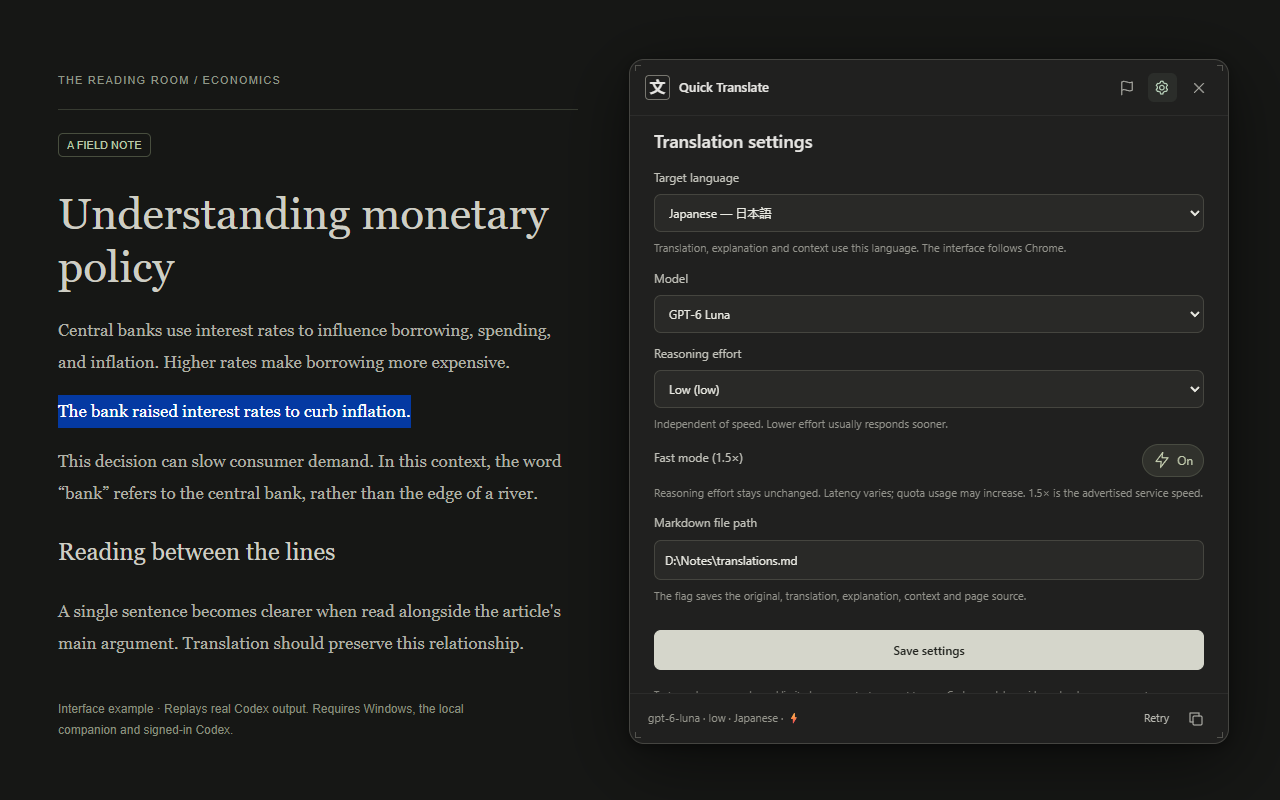
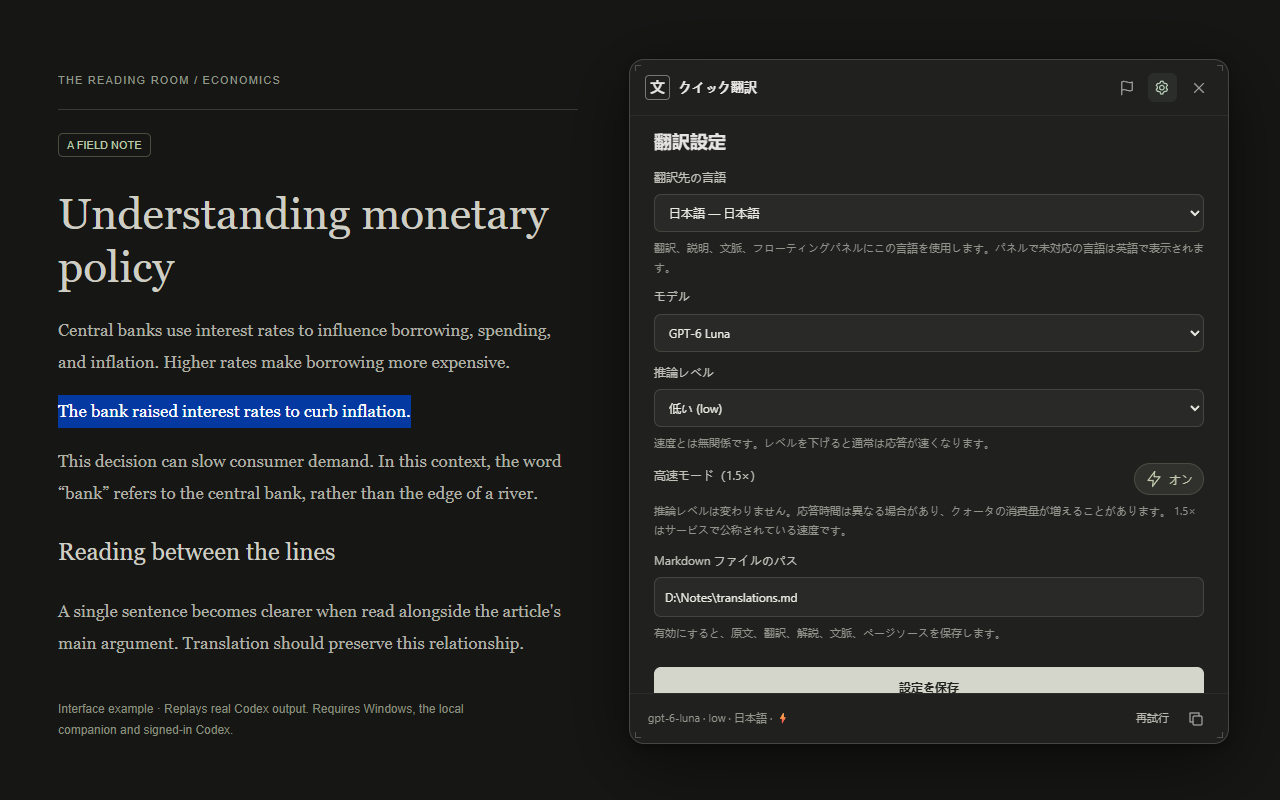
Fix floating panel language updates for v1.3.1

Changed region(s): [[0.5, 0.2188, 0.9375, 0.9062], [0.5, 0.1562, 0.625, 0.1875], [0.5312, 0.0938, 0.5938, 0.125]]

diff --git a/extension/content.js b/extension/content.js
@@ -1,7 +1,7 @@
 (() => {
   if(globalThis.__localCodexTranslator) return;
   globalThis.__localCodexTranslator = true;
-  const {t,locale,apply,error:displayError}=TranslatorI18n;
+  const {t,locale,apply,error:displayError,setCatalog}=TranslatorI18n.create();
   const svg = (body) => `<svg width="18" height="18" viewBox="0 0 24 24" fill="none" stroke="currentColor" stroke-width="1.65" stroke-linecap="round" stroke-linejoin="round" aria-hidden="true">${body}</svg>`;
   const icons = {
     flag:svg('<path d="M5 21V4c4-4 9 4 14 0v11c-5 4-10-4-14 0"/>'),
@@ -12,8 +12,8 @@
     arrow:svg('<path d="M5 12h14m-5-5 5 5-5 5"/>'),
     copy:svg('<rect x="8" y="8" width="12" height="12" rx="2"/><path d="M16 8V4H4v12h4"/>')
   };
-  let host, shadow, ui, data, requestId, raw = '', done = false, prefs, models = [], started = 0, ticker;
-  const ask = async msg => { const r = await chrome.runtime.sendMessage(msg); if(!r?.ok) throw new Error(r?.error || t('errorConnection')); return r; };
+  let host, shadow, ui, data, requestId, raw = '', done = false, prefs, models = [], started = 0, ticker, lastEffective, lastStatus, loadingHost;
+  const ask = async msg => { const r = await chrome.runtime.sendMessage(msg); if(!r?.ok) throw Object.assign(new Error(r?.error || t('errorConnection')),{code:r?.errorCode,args:r?.errorArgs}); return r; };
   function collect(fallback) {
     const selection = window.getSelection();
     let selected = selection?.toString().trim() || fallback?.trim() || '';
@@ -61,6 +61,7 @@
   `;
   function mount(rect) {
     if(host) close();
+    raw='';lastEffective=null;lastStatus=null;prefs=null;models=[];
     host = document.createElement('div');
     host.id = 'local-codex-quick-translator';
     host.style.cssText='all:initial!important;position:fixed!important;inset:0!important;width:0!important;height:0!important;z-index:2147483647!important;';
@@ -72,24 +73,25 @@
       <div class="field"><label for="target-language" data-i18n="targetLanguage"></label><select id="target-language"></select><input id="custom-language" dir="ltr" hidden maxlength="50" data-i18n-placeholder="languageCode" data-i18n-aria="languageCodeLabel" spellcheck="false"><div class="hint" data-i18n="targetHint"></div></div>
       <div class="field"><label for="model" data-i18n="model"></label><select id="model" name="model"><option data-i18n="connecting"></option></select></div><div class="field"><label for="effort" data-i18n="effort"></label><select id="effort" name="effort" disabled><option data-i18n="loading"></option></select><div class="hint" data-i18n="effortHint"></div></div>
       <div class="field"><div class="toggle-row"><label class="fast-label" data-i18n="fastMode"></label><button class="switch" type="button" role="switch" aria-checked="true">${icons.bolt}<span data-i18n="enabled"></span></button></div><div class="hint speed-hint" data-i18n="speedHint"></div></div><div class="field"><label for="notes-path" data-i18n="notesPath"></label><input id="notes-path" name="path" dir="ltr" placeholder="D:\\Notes\\translations.md" spellcheck="false" required><div class="hint" data-i18n="notesHint"></div></div><button class="save-settings" type="submit" disabled data-i18n="saveSettings"></button><div class="privacy" data-i18n="privacyShort"></div></form><div class="status" role="status" aria-live="polite"></div></div>
-      <footer class="bottom"><span class="bottom-left" data-i18n="connecting"></span><div class="actions"><button class="text-button retry" hidden data-i18n="retry"></button><button class="text-button stop" data-i18n="stop"></button><button class="icon copy" data-i18n-title="copy" data-i18n-aria="copy" disabled>${icons.copy}</button></div></footer>
+      <footer class="bottom"><span class="bottom-left"></span><div class="actions"><button class="text-button retry" hidden data-i18n="retry"></button><button class="text-button stop" data-i18n="stop"></button><button class="icon copy" data-i18n-title="copy" data-i18n-aria="copy" disabled>${icons.copy}</button></div></footer>
       ${['nw','ne','sw','se'].map(c=>`<div class="handle ${c}" data-corner="${c}" aria-hidden="true"></div>`).join('')}
     </section>`;
     apply(shadow);
     document.documentElement.append(host);
     ui = sel => shadow.querySelector(sel);
+    ui('.bottom-left').textContent=t('connecting');
     const panel = ui('.panel'); panel.lang=locale();panel.dir=TranslatorLanguages.direction(locale()); const w=Math.min(460,innerWidth-16),h=Math.min(530,innerHeight-16);
     let x=Math.max(8,Math.min(rect?.left || 24,innerWidth-w-8));
     let y=rect ? rect.bottom+10 : 60;
     if(y+h>innerHeight-8) y=rect && rect.top-h-10>=8 ? rect.top-h-10 : innerHeight-h-8;
     Object.assign(panel.style,{left:`${x}px`,top:`${Math.max(8,y)}px`,width:`${w}px`,height:`${h}px`});
     ui('.close').onclick=close;
-    ui('.gear').onclick=()=>{const showing=ui('.settings').classList.toggle('visible');ui('.reading').classList.toggle('hidden',showing);ui('.gear').classList.toggle('active',showing);if(showing) void loadSettings();};
+    ui('.gear').onclick=()=>{const showing=ui('.settings').classList.toggle('visible');ui('.reading').classList.toggle('hidden',showing);ui('.gear').classList.toggle('active',showing);if(showing&&!prefs)void loadSettings();};
     ui('.flag').onclick=save;
     ui('.stop').onclick=()=>void stop();
-    ui('.retry').onclick=()=>void translate();
-    ui('.copy').onclick=async()=>{try {await navigator.clipboard.writeText(raw);status(t('copied'));}catch{status(t('copyFailed'),true);}};
-    ui('.settings').onsubmit=async event=>{event.preventDefault();const button=ui('.save-settings');button.disabled=true;try {const r=await ask({type:'settings',preferences:{model:ui('#model').value,effort:ui('#effort').value,fast:ui('.switch').getAttribute('aria-checked')==='true',notesPath:ui('#notes-path').value.trim(),targetLanguage:TranslatorLanguages.read(ui('#target-language'),ui('#custom-language'))}});prefs=r.preferences;status(t('settingsSaved'));if(!raw)effective(r.effective);}catch(e){status(displayError(e),true);}finally{button.disabled=false;}};
+    ui('.retry').onclick=()=>void beginTranslation();
+    ui('.copy').onclick=async()=>{try {await navigator.clipboard.writeText(raw);statusKey('copied');}catch{statusKey('copyFailed',[],true);}};
+    ui('.settings').onsubmit=async event=>{event.preventDefault();const panelHost=host,button=ui('.save-settings');button.disabled=true;try {const r=await ask({type:'settings',preferences:{model:ui('#model').value,effort:ui('#effort').value,fast:ui('.switch').getAttribute('aria-checked')==='true',notesPath:ui('#notes-path').value.trim(),targetLanguage:TranslatorLanguages.read(ui('#target-language'),ui('#custom-language'))}});if(host!==panelHost)return;updateSettings(r);statusKey('settingsSaved');}catch(e){if(host===panelHost)status(displayError(e),true);}finally{button.disabled=false;}};
     ui('.switch').onclick=()=>{const on=ui('.switch').getAttribute('aria-checked')!=='true';toggle(on);speedHint();};
     ui('#model').onchange=()=>{fillEfforts(ui('#effort').value);speedHint();};
     shadow.addEventListener('keydown',e=>{e.stopPropagation();if(e.key==='Escape') close();});
@@ -112,12 +114,25 @@
       target.addEventListener('pointermove',move);target.addEventListener('pointerup',end);target.addEventListener('pointercancel',end);
     });
   }
-  function status(text,error=false){if(!host)return;ui('.status').textContent=text;ui('.status').classList.toggle('error',error);}
+  function status(text,error=false){if(!host)return;lastStatus={text,error};ui('.status').textContent=text;ui('.status').classList.toggle('error',error);}
+  function statusKey(key,args=[],error=false){status(t(key,args),error);lastStatus={key,args,error};}
   function toggle(on){ui('.switch').setAttribute('aria-checked',String(on));ui('.switch span').textContent=t(on?'enabled':'disabled');}
-  function fillEfforts(preferred){const m=models.find(m=>m.model===ui('#model').value);if(m)TranslatorSettings.fillEfforts(ui('#effort'),m,preferred);}
-  function speedHint(){const m=models.find(m=>m.model===ui('#model').value);if(!m)return;const info=TranslatorSettings.speedInfo(m);ui('.fast-label').textContent=info.label;ui('.speed-hint').textContent=info.hint;ui('.switch').disabled=!info.supported;}
-  function effective(settings){if(!host||!settings)return;const language=settings.targetLanguage||TranslatorLanguages.resolve(prefs?.targetLanguage,locale());ui('.translation').lang=language;ui('.translation').dir=TranslatorLanguages.direction(language);ui('.bottom-left').textContent=`${settings.model} · ${settings.effort} · ${TranslatorLanguages.name(language,locale())}${settings.serviceTier!=='default'?' · ⚡':''}`;}
-  async function loadSettings(){try{const r=await ask({type:'hello'});if(!host)return;prefs=r.preferences;models=r.models;TranslatorLanguages.fill(ui('#target-language'),ui('#custom-language'),prefs.targetLanguage,locale(),t);const select=ui('#model');select.replaceChildren(...models.map(m=>{const o=document.createElement('option');o.value=m.model;o.textContent=m.displayName||m.model;return o;}));select.value=prefs.model;fillEfforts(prefs.effort);ui('#notes-path').value=prefs.notesPath;toggle(prefs.fast);speedHint();ui('.save-settings').disabled=false;if(!raw)effective(r.effective);}catch(e){status(displayError(e),true);}}
+  function fillEfforts(preferred){const m=models.find(m=>m.model===ui('#model').value);if(m)TranslatorSettings.fillEfforts(ui('#effort'),m,preferred,t);}
+  function speedHint(){const m=models.find(m=>m.model===ui('#model').value);if(!m)return;const info=TranslatorSettings.speedInfo(m,t);ui('.fast-label').textContent=info.label;ui('.speed-hint').textContent=info.hint;ui('.switch').disabled=!info.supported;}
+  function effective(settings){if(!host||!settings)return;lastEffective=settings;const language=settings.targetLanguage||TranslatorLanguages.resolve(prefs?.targetLanguage,chrome.i18n.getUILanguage());ui('.translation').lang=language;ui('.translation').dir=TranslatorLanguages.direction(language);ui('.bottom-left').textContent=`${settings.model} · ${settings.effort} · ${TranslatorLanguages.name(language,locale())}${settings.serviceTier!=='default'?' · ⚡':''}`;}
+  function updateSettings(r){
+    prefs=r.preferences;models=r.models||models;
+    if(r.ui)setCatalog(r.ui);
+    apply(shadow);ui('.panel').lang=locale();ui('.panel').dir=TranslatorLanguages.direction(locale());
+    TranslatorLanguages.fill(ui('#target-language'),ui('#custom-language'),prefs.targetLanguage,locale(),t);
+    const select=ui('#model');select.replaceChildren(...models.map(m=>{const o=document.createElement('option');o.value=m.model;o.textContent=m.displayName||m.model;return o;}));
+    select.value=prefs.model;fillEfforts(prefs.effort);ui('#notes-path').value=prefs.notesPath;toggle(prefs.fast);speedHint();ui('.save-settings').disabled=false;
+    // Existing output keeps its own language and direction; changing UI does not regenerate it.
+    effective(lastEffective||r.effective);
+    if(lastStatus?.key)statusKey(lastStatus.key,lastStatus.args,lastStatus.error);
+  }
+  async function loadSettings(){const panelHost=host;if(loadingHost===panelHost)return false;loadingHost=panelHost;try{const r=await ask({type:'hello'});if(host!==panelHost)return false;updateSettings(r);return true;}catch(e){if(host===panelHost)status(displayError(e),true);return false;}finally{if(loadingHost===panelHost)loadingHost=null;}}
+  async function beginTranslation(){const panelHost=host;const ready=prefs||await loadSettings();if(host!==panelHost)return;if(ready)await translate();else finish(lastStatus?.text||t('errorConnection'));}
   function render(text){
     if(!host)return;const area=ui('.translation');area.replaceChildren();let primary=false,headingCount=0;
     for(const block of text.split(/\n(?=## )|(?<=\n)\n/)){
@@ -132,18 +147,19 @@
     requestId=crypto.randomUUID();raw='';done=false;started=performance.now();
     ui('.source').textContent=data.selected;ui('.flag').disabled=true;ui('.flag').classList.remove('active');ui('.flag').innerHTML=icons.flag;ui('.copy').disabled=true;ui('.stop').hidden=false;ui('.retry').hidden=true;
     ui('.translation').dir=TranslatorLanguages.direction(locale());ui('.translation').innerHTML='<div class="empty"><span class="pulse"></span><span data-i18n="translatingContext"></span></div>';apply(ui('.translation'));ui('.translation').setAttribute('aria-busy','true');status('');
-    clearInterval(ticker);ticker=setInterval(()=>{if(host&&!raw)status(t('elapsed',[String(Math.floor((performance.now()-started)/1000))]));},1000);
+    clearInterval(ticker);ticker=setInterval(()=>{if(host&&!raw)statusKey('elapsed',[String(Math.floor((performance.now()-started)/1000))]);},1000);
     const id=requestId;
-    try{const {rect,...payload}=data;await ask({type:'translate',id,data:payload});}catch(e){if(id===requestId)finish(e.message);}
+    try{const {rect,...payload}=data;await ask({type:'translate',id,data:payload});}catch(e){if(id===requestId)finish(displayError(e));}
   }
-  function finish(error){clearInterval(ticker);if(!host)return;done=true;ui('.translation').setAttribute('aria-busy','false');ui('.stop').hidden=true;ui('.retry').hidden=false;ui('.copy').disabled=!raw;ui('.flag').disabled=!!error||!raw;if(error){if(!raw)ui('.translation').textContent=t('incomplete');status(error,true);}else status(t('complete',[((performance.now()-started)/1000).toFixed(1)]));}
+  function finish(error){clearInterval(ticker);if(!host)return;done=true;ui('.translation').setAttribute('aria-busy','false');ui('.stop').hidden=true;ui('.retry').hidden=false;ui('.copy').disabled=!raw;ui('.flag').disabled=!!error||!raw;if(error){if(!raw)ui('.translation').textContent=t('incomplete');status(error,true);}else statusKey('complete',[((performance.now()-started)/1000).toFixed(1)]);}
   async function stop(){if(requestId&&!done){ask({type:'cancel',target:requestId}).catch(()=>{});finish(t('stopped'));requestId=null;}}
-  async function save(){const id=requestId;ui('.flag').disabled=true;try{const r=await ask({type:'save',target:id});if(id!==requestId||!host)return;ui('.flag').innerHTML=icons.check;ui('.flag').classList.add('active');status(t('savedTo',[r.path]));}catch(e){if(id===requestId&&host){ui('.flag').disabled=false;status(displayError(e),true);}}}
-  function close(){if(requestId&&!done)ask({type:'cancel',target:requestId}).catch(()=>{});clearInterval(ticker);host?.remove();host=null;requestId=null;}
+  async function save(){const id=requestId;ui('.flag').disabled=true;try{const r=await ask({type:'save',target:id});if(id!==requestId||!host)return;ui('.flag').innerHTML=icons.check;ui('.flag').classList.add('active');statusKey('savedTo',[r.path]);}catch(e){if(id===requestId&&host){ui('.flag').disabled=false;status(displayError(e),true);}}}
+  function close(){if(requestId&&!done)ask({type:'cancel',target:requestId}).catch(()=>{});ask({type:'panel-closed'}).catch(()=>{});clearInterval(ticker);host?.remove();host=null;requestId=null;}
   document.addEventListener('keydown',event=>{if(host&&event.key==='Escape'){event.preventDefault();event.stopPropagation();close();}},true);
   window.addEventListener('resize',()=>{if(!host)return;const panel=ui('.panel'),r=panel.getBoundingClientRect();const w=Math.min(r.width,innerWidth-16),h=Math.min(r.height,innerHeight-16);Object.assign(panel.style,{width:`${w}px`,height:`${h}px`,left:`${Math.max(8,Math.min(r.left,innerWidth-w-8))}px`,top:`${Math.max(8,Math.min(r.top,innerHeight-h-8))}px`});});
   chrome.runtime.onMessage.addListener(msg=>{
-    if(msg.type==='open-translator') {try{const collected=collect(msg.selectionText);mount(collected.rect);data=collected;void translate();}catch(e){mount();status(displayError(e),true);ui('.translation').textContent=t('errorSelectText');ui('.stop').hidden=true;}return;}
-    if(msg.type==='translation-event'&&msg.id===requestId&&host){if(msg.text!==undefined){raw=msg.text;render(raw);effective(msg.settings);status(t('translating'));}if(msg.event==='done')finish();if(msg.event==='error')finish(msg.error);}
+    if(msg.type==='open-translator') {try{const collected=collect(msg.selectionText);mount(collected.rect);data=collected;void beginTranslation();}catch(e){mount();status(displayError(e),true);ui('.translation').textContent=t('errorSelectText');ui('.stop').hidden=true;}return;}
+    if(msg.type==='settings-updated'&&host){updateSettings(msg);return;}
+    if(msg.type==='translation-event'&&msg.id===requestId&&host){if(msg.text!==undefined){raw=msg.text;render(raw);effective(msg.settings);statusKey('translating');}if(msg.event==='done')finish();if(msg.event==='error')finish(displayError({code:msg.errorCode,args:msg.errorArgs,message:msg.error}));}
   });
 })();

diff --git a/extension/background.js b/extension/background.js
@@ -2,6 +2,26 @@ importScripts('i18n.js','languages.js');
 const {t,locale,error:displayError}=TranslatorI18n;
 const HOST = 'com.local.codex_quick_translator';
 let nativePort, languageCapable=false, checkingHost;
+const panels=new Map(),catalogs=new Map();
+async function localized(result) {
+  const code=TranslatorI18n.catalogLocale(TranslatorLanguages.resolve(result.preferences.targetLanguage,locale()));
+  if(!catalogs.has(code))catalogs.set(code,fetch(chrome.runtime.getURL(`_locales/${code}/messages.json`)).then(response=>{
+    if(!response.ok)throw new Error(t('errorConnection'));
+    return response.json();
+  }).catch(error=>{catalogs.delete(code);throw error;}));
+  return {...result,ui:{locale:code.replace('_','-'),messages:await catalogs.get(code)}};
+}
+function watchPanel(sender) {
+  if(!sender.tab)return;
+  panels.set(owner(sender),{tabId:sender.tab.id,frameId:sender.frameId||0,documentId:sender.documentId});
+  if(panels.size>200)panels.delete(panels.keys().next().value);
+}
+function notifySettings(result,sender) {
+  for(const [key,panel] of panels){
+    if(key===owner(sender))continue;
+    chrome.tabs.sendMessage(panel.tabId,{type:'settings-updated',preferences:result.preferences,effective:result.effective,ui:result.ui},{frameId:panel.frameId,documentId:panel.documentId}).catch(()=>panels.delete(key));
+  }
+}
 async function hello() {
   const result=await request('hello');
   languageCapable=result.capabilities?.targetLanguage===true;
@@ -28,7 +48,7 @@ function connect() {
       if(message.type === 'done' || message.type === 'error') routes.delete(message.id);
     }
     const p = pending.get(message.id);
-    if(p) { clearTimeout(p.timer); pending.delete(message.id); message.type === 'error' ? p.reject(new Error(message.error)) : p.resolve(message); }
+    if(p) { clearTimeout(p.timer); pending.delete(message.id); message.type === 'error' ? p.reject(Object.assign(new Error(message.error),{code:message.errorCode,args:message.errorArgs})) : p.resolve(message); }
   });
   port.onDisconnect.addListener(()=>{
     const error = chrome.runtime.lastError?.message || t('errorHostDisconnected');
@@ -73,13 +93,16 @@ chrome.runtime.onMessage.addListener((msg,sender,reply)=>{
     const source = new URL(sender.url || '');
     const ownOptions = source.href === `chrome-extension://${chrome.runtime.id}/options.html`;
     if(!(sender.tab && ['https:','http:'].includes(source.protocol)) && !ownOptions) throw new Error(t('errorSender'));
-    if(msg.type === 'hello') return hello();
+    if(msg.type === 'hello') {watchPanel(sender);return localized(await hello());}
+    if(msg.type === 'panel-closed' && sender.tab) {panels.delete(owner(sender));return {ok:true};}
     if(msg.type === 'settings') {
       const p=msg.preferences;
       if(!p || typeof p.model!=='string' || p.model.length>160 || typeof p.effort!=='string' || p.effort.length>20 || typeof p.fast!=='boolean' || typeof p.notesPath!=='string' || p.notesPath.length>2048 || typeof p.targetLanguage!=='string') throw new Error(t('errorSettings'));
       const targetLanguage=TranslatorLanguages.normalize(p.targetLanguage);
       await ensureHost();
-      return request('settings',{preferences:{model:p.model,effort:p.effort,fast:p.fast,notesPath:p.notesPath,targetLanguage}});
+      const result=await localized(await request('settings',{preferences:{model:p.model,effort:p.effort,fast:p.fast,notesPath:p.notesPath,targetLanguage}}));
+      notifySettings(result,sender);
+      return result;
     }
     if(msg.type === 'translate' && sender.tab) {
       if(typeof msg.id !== 'string' || !msg.id || msg.id.length > 120 || owners.has(msg.id)) throw new Error(t('errorRequest'));
@@ -99,10 +122,11 @@ chrome.runtime.onMessage.addListener((msg,sender,reply)=>{
       return request(msg.type,{target:msg.target});
     }
     throw new Error(t('errorRequest'));
-  })().then(result=>reply({ok:true,...result}),e=>reply({ok:false,error:displayError(e)}));
+  })().then(result=>reply({ok:true,...result}),e=>reply({ok:false,error:displayError(e),errorCode:e.code,errorArgs:e.args}));
   return true;
 });
 chrome.tabs.onRemoved.addListener(tabId=>{
+  for(const [key,panel] of panels)if(panel.tabId===tabId)panels.delete(key);
   for(const [id,route] of routes) if(route.tabId===tabId) {if(nativePort) nativePort.postMessage({id:crypto.randomUUID(),type:'cancel',target:id});routes.delete(id);}
   for(const [id,key] of owners) if(key.startsWith(`${tabId}:`)) owners.delete(id);
 });

diff --git a/tests/preview.html b/tests/preview.html
@@ -9,9 +9,11 @@ Element.prototype.attachShadow=function(options){return attachShadow.call(this,{
 const listeners=[];let cancel=false;let fail=false;
 let preferences={model:'gpt-6-luna',effort:'low',fast:true,targetLanguage:'auto',notesPath:'D:\\Notes\\translations.md'};
 const models=[{model:'gpt-6-luna',displayName:'GPT-6 Luna',defaultReasoningEffort:'medium',supportedReasoningEfforts:[{reasoningEffort:'low'},{reasoningEffort:'medium'}],serviceTiers:[{id:'priority',description:'1.5x speed'}]},{model:'gpt-6-sol',displayName:'GPT-6 Sol',defaultReasoningEffort:'medium',supportedReasoningEfforts:[{reasoningEffort:'low'},{reasoningEffort:'medium'}],serviceTiers:[{id:'priority',description:'1.5x speed'}]}];
+async function panelCatalog(){const code=TranslatorI18n.catalogLocale(preferences.targetLanguage==='auto'?chrome.i18n.getUILanguage():preferences.targetLanguage);return {locale:code.replace('_','-'),messages:await fetch('/_locales/'+code+'/messages.json').then(r=>r.json())};}
 window.chrome={i18n:window.__testI18n||{getUILanguage:()=> 'en',getMessage:()=>''},runtime:{onMessage:{addListener(fn){listeners.push(fn);}},async sendMessage(msg){
-  if(msg.type==='hello')return{ok:true,models,preferences,effective:{model:preferences.model,effort:'low',serviceTier:'priority',targetLanguage:preferences.targetLanguage==='auto'?chrome.i18n.getUILanguage():preferences.targetLanguage}};
-  if(msg.type==='settings'){preferences=msg.preferences;return{ok:true,preferences,effective:{model:preferences.model,effort:preferences.effort,serviceTier:preferences.fast?'priority':'default',targetLanguage:preferences.targetLanguage==='auto'?chrome.i18n.getUILanguage():preferences.targetLanguage}};}
+  if(msg.type==='hello')return{ok:true,ui:await panelCatalog(),models,preferences,effective:{model:preferences.model,effort:'low',serviceTier:'priority',targetLanguage:preferences.targetLanguage==='auto'?chrome.i18n.getUILanguage():preferences.targetLanguage}};
+  if(msg.type==='settings'){preferences=msg.preferences;return{ok:true,ui:await panelCatalog(),preferences,effective:{model:preferences.model,effort:preferences.effort,serviceTier:preferences.fast?'priority':'default',targetLanguage:preferences.targetLanguage==='auto'?chrome.i18n.getUILanguage():preferences.targetLanguage}};}
+  if(msg.type==='panel-closed')return{ok:true};
   if(msg.type==='save')return{ok:true,path:preferences.notesPath};
   if(msg.type==='cancel'){cancel=true;return{ok:true};}
   if(msg.type==='translate'){

diff --git a/extension/settings-ui.js b/extension/settings-ui.js
@@ -5,16 +5,16 @@
     const values=order.filter(e=>model.supportedReasoningEfforts.some(v=>v.reasoningEffort===e));
     return {values,selected:values.includes(preferred)?preferred:values[0]||model.defaultReasoningEffort};
   }
-  function fillEfforts(select,model,preferred){
+  function fillEfforts(select,model,preferred,translate=t){
     const {values,selected}=effortChoices(model,preferred);
-    select.replaceChildren(...values.map(value=>{const option=document.createElement('option');option.value=value;option.textContent=`${t('effort_'+value)} (${value})`;return option;}));select.value=selected;select.disabled=false;
+    select.replaceChildren(...values.map(value=>{const option=document.createElement('option');option.value=value;option.textContent=`${translate('effort_'+value)} (${value})`;return option;}));select.value=selected;select.disabled=false;
   }
-  function speedInfo(model){
+  function speedInfo(model,translate=t){
     const tier=(model.serviceTiers||[]).find(t=>t.id==='priority'||t.id==='fast');
     const supported=!!tier||(model.additionalSpeedTiers||[]).includes('fast');
     const multiplier=tier?.description?.match(/(\d+(?:\.\d+)?)\s*[x×]/i)?.[1];
-    return {supported,label:multiplier?t('fastMultiplier',multiplier):t('fastMode'),hint:supported?
-      `${t('speedSupported')} ${multiplier?t('nominalSpeed',multiplier):''}`:t('speedUnavailable')};
+    return {supported,label:multiplier?translate('fastMultiplier',multiplier):translate('fastMode'),hint:supported?
+      `${translate('speedSupported')} ${multiplier?translate('nominalSpeed',multiplier):''}`:translate('speedUnavailable')};
   }
   const api={effortChoices,fillEfforts,speedInfo};
   if(typeof module==='object'&&module.exports)module.exports=api;else root.TranslatorSettings=api;

diff --git a/extension/i18n.js b/extension/i18n.js
@@ -1,11 +1,22 @@
 (function(root){
   const fallback=typeof module==='object'&&module.exports?require('./_locales/en/messages.json'):null;
+  function catalogLocale(language='en') {
+    const code=String(language).replaceAll('_','-').toLowerCase();
+    if(/^zh(?:-|$)/.test(code))return /^zh-(?:hant|tw|hk|mo)(?:-|$)/.test(code)?'zh_TW':'zh_CN';
+    if(/^pt(?:-|$)/.test(code))return 'pt_BR';
+    const base=code.split('-')[0];
+    return ['en','es','fr','de','ja','ko','ar'].includes(base)?base:'en';
+  }
+  function create() {
+  let selected=null;
   function t(key,values=[]) {
     const args=Array.isArray(values)?values:[String(values)];
+    if(selected)return (selected.messages[key]?.message||fallback?.[key]?.message||key).replace(/\$value(\d)\$/gi,(_,n)=>args[Number(n)-1]??'');
     const message=root.chrome?.i18n?.getMessage(key,args);
     return message || (fallback?.[key]?.message||key).replace(/\$value(\d)\$/gi,(_,n)=>args[Number(n)-1]??'');
   }
-  const locale=()=>root.chrome?.i18n?.getUILanguage()||'en';
+  const locale=()=>selected?.locale||root.chrome?.i18n?.getUILanguage()||'en';
+  const setCatalog=catalog=>{selected=catalog;};
   function apply(scope) {
     for(const node of scope.querySelectorAll('[data-i18n]'))node.textContent=t(node.dataset.i18n);
     for(const [data,attribute] of [['i18nTitle','title'],['i18nAria','aria-label'],['i18nPlaceholder','placeholder']]){
@@ -14,6 +25,8 @@
     }
   }
   const error=e=>e?.code&&t(e.code)!==e.code?t(e.code,e.args||[]):e?.message||t('errorConnection');
-  const api={t,locale,apply,error};
+  return {t,locale,apply,error,setCatalog};
+  }
+  const api={...create(),create,catalogLocale};
   if(typeof module==='object'&&module.exports)module.exports=api;else root.TranslatorI18n=api;
 })(globalThis);

diff --git a/store/LISTING.en.md b/store/LISTING.en.md
@@ -2,26 +2,25 @@
 
 Name: Quick Translate · Local Codex
 
-Short description: Translate selections with page context into your chosen language. Save sources to Markdown. Requires Windows and local Codex.
+Short description: Translate selected text with page context into your chosen language. Save results and source links to Markdown.
 
 ## Detailed description
 
-Select text on a webpage, right-click Quick Translate, and read the translation, explanation and page context beside the original. You can also use Alt+Shift+T.
+Read the web in your own language. Select text on a webpage, right-click **Quick Translate**, and get a translation, a clear explanation and the passage's meaning in context. You can also press **Alt+Shift+T**. Results appear in a resizable floating window beside the text you selected.
 
-Requirements: Windows, Node.js 20+, an installed and signed-in Codex, and this project's separate open-source local companion. The browser extension alone cannot translate. Installation instructions appear in settings. Model inference uses your configured cloud provider and may consume account quota; this extension does not provide free model access.
+**Requirements:** Windows, Node.js 20+, Codex installed and signed in, and this project's separate open-source local companion. The extension alone cannot perform translations. Follow the installation instructions in settings. Requests use the cloud model provider configured in Codex and may consume your account quota. No free model access is included.
 
 Features:
-- Choose a target language in settings. Translation, explanation and context all follow that choice. The picker includes over 150 languages and accepts custom language codes; actual support and quality depend on the model.
-- New installations follow the browser language by default. Existing users retain Chinese until changed.
-- The interface follows Chrome, with English, Simplified/Traditional Chinese, Spanish, French, German, Japanese, Korean, Arabic and Brazilian Portuguese. Other interface languages fall back to English.
-- Dark rounded floating panel with dragging, four-corner resizing and right-to-left text support.
-- Independent model, reasoning-effort and fast-service settings. Defaults to GPT-6 Luna, low and advertised 1.5× service; availability and latency depend on Codex.
-- The flag saves the original, translation, explanation, context, source page title and clickable URL to a local Markdown file.
-- Stop, retry, copy and close with Esc.
+- **Choose your target language.** Translation, explanation, context and section headings use the selected language. Pick from more than 150 languages or enter a language code. Translation availability and quality depend on the model.
+- **Use the extension in your language.** The floating panel follows your target language and updates immediately after saving. The toolbar settings page and context menu follow Chrome. Interface translations include English, Simplified and Traditional Chinese, Spanish, French, German, Japanese, Korean, Arabic and Brazilian Portuguese. Unavailable panel languages use English; model output still follows your selected target language. New installations follow the browser language by default; existing installations keep Chinese until you change it.
+- **Read comfortably.** The dark, rounded panel can be moved and resized from any corner. Right-to-left languages are displayed in the appropriate direction.
+- **Set up your model.** Choose a model, reasoning effort and fast service independently. The default is GPT-6 Luna with low reasoning effort and the advertised 1.5× service tier. Model access and actual response time depend on your Codex account and service.
+- **Keep useful passages.** Click the flag to append the original text, translation, explanation, context, page title and source URL to a local Markdown file.
+- Stop a translation, retry, copy the result or close the panel with Esc.
 
-Page content is read only after your translation request. The extension does not continuously track browsing, read cookies, or contain ads or analytics. Selected text and limited page context are sent to your configured model provider; this is not offline translation.
+The extension reads webpage content only after you request a translation. It does not continuously track browsing or read cookies, and it contains no ads or analytics. Selected text and limited page context are sent to your configured model provider. Translation is not performed offline.
 
-Chrome internal pages, the Web Store, the built-in PDF viewer and some cross-origin frames cannot display the panel. Long or dynamically loaded pages provide only bounded visible context. Privacy filtering of source URLs may affect links requiring unusual query parameters.
+Chrome internal pages, the Web Store, the built-in PDF viewer and some cross-origin frames cannot display the panel. For long or dynamically loaded pages, only a limited amount of visible page context is available. Privacy filtering may affect source links that rely on unusual query parameters.
 
 Independent open-source project; not affiliated with OpenAI or Google.
 

diff --git a/README.en.md b/README.en.md
@@ -8,7 +8,7 @@ Select text on a webpage and choose **Quick Translate**, or press `Alt+Shift+T`.
 
 Set **Target language** in the toolbar settings or floating panel's gear menu. The picker includes over 150 languages, plus custom language codes such as `sr-Latn-RS`. Translation, explanation, context and section headings all use the selected language. Support and quality depend on the model; inclusion is not a guarantee of translation quality for every language.
 
-New installations follow Chrome's language by default. Existing installations retain Simplified Chinese until changed. The interface follows Chrome independently: English, Simplified Chinese, Traditional Chinese, Spanish, French, German, Japanese, Korean, Arabic and Brazilian Portuguese are included; other interface languages fall back to English. Arabic and other right-to-left output use the appropriate text direction. Note metadata uses an included locale or English fallback; every note records its actual target language.
+New installations follow Chrome's language by default. Existing installations retain Simplified Chinese until changed. Floating-panel labels and settings follow the target language and update immediately after saving, including panels already open in other tabs. The toolbar settings page and context menu follow Chrome. Available interface languages: English, Simplified Chinese, Traditional Chinese, Spanish, French, German, Japanese, Korean, Arabic and Brazilian Portuguese are included; other panel languages fall back to English while model output keeps the selected target language. Arabic and other right-to-left output use the appropriate text direction. Note metadata uses an included locale or English fallback; every note records its actual target language.
 
 The implementation uses Chrome's standard `_locales`, `default_locale`, manifest message substitutions and `chrome.i18n.getMessage`. See [Chrome i18n documentation](https://developer.chrome.com/docs/extensions/reference/api/i18n).
 
@@ -16,7 +16,7 @@ The implementation uses Chrome's standard `_locales`, `default_locale`, manifest
 
 Currently **Windows only**. You need Chrome, Node.js 20+ and an installed, signed-in Codex with model access. Translation uses your configured cloud model provider and may consume service quota. It is not offline translation and no free model quota is included.
 
-1. Download the full `codex-quick-translator-1.3.0.zip` companion/source package from Releases and extract it to a permanent directory.
+1. Download the full `codex-quick-translator-1.3.1.zip` companion/source package from Releases and extract it to a permanent directory.
 2. For an unpacked installation, run `powershell -NoProfile -ExecutionPolicy Bypass -File .\scripts\install.ps1` from that directory. Open `chrome://extensions`, enable Developer mode, then load the `extension` folder.
 3. For a Web Store installation, open the extension's settings/help section and run its displayed installation command from the companion directory. It includes `-ExtensionId` for your store installation. Do not load a second unpacked extension.
 4. Open settings, confirm the connection, choose a target language and set an absolute local `.md` path.

diff --git a/README.md b/README.md
@@ -19,8 +19,8 @@
 
 - 在浮窗齿轮或扩展设置页选择目标语言；提供 150 多种语言选项，也允许填写其他语言或地区代码，例如 `fil`、`sr-Latn-RS`。实际翻译支持与质量取决于模型，不保证所有语言同等准确。
 - 新安装默认“跟随浏览器语言”；已有用户保留原先的简体中文，可随时修改。GPT-6 Luna + low + 快速服务的默认组合不变。
-- 翻译、解释、语境说明及其标题使用目标语言；界面独立跟随 Chrome。
-- 按 [Chrome i18n 文档](https://developer.chrome.com/docs/extensions/reference/api/i18n) 使用 `_locales`、`default_locale`、`__MSG_*__` 和 `chrome.i18n.getMessage`，包含简体中文、繁体中文、英语、西班牙语、法语、德语、日语、韩语、阿拉伯语、巴西葡萄牙语。其他界面语言回退英文。
+- 翻译、解释、语境说明及其标题使用目标语言；浮窗按钮与设置界面也跟随目标语言，保存后立即更新已打开的浮窗。工具栏设置页与右键菜单仍跟随 Chrome。
+- 按 [Chrome i18n 文档](https://developer.chrome.com/docs/extensions/reference/api/i18n) 使用 `_locales`、`default_locale`、`__MSG_*__` 和 `chrome.i18n.getMessage`，包含简体中文、繁体中文、英语、西班牙语、法语、德语、日语、韩语、阿拉伯语、巴西葡萄牙语。尚未提供的浮窗界面语言回退英文，模型输出仍使用所选目标语言。
 - 阿拉伯语等从右向左书写的语言独立设置排版方向。Markdown 保存本次实际目标语言及明确的来源网址；元信息标签在支持的界面语言中本地化，其余回退英文。
 - 扩展与本地连接程序都需要更新至 1.3.0 或以上。只更新浏览器扩展时会提示更新连接程序，避免所选语言被旧程序忽略。旧安装目录原位覆盖新版完整包即可保留 `.local` 设置；目录或扩展 ID 改变则重新运行安装脚本。
 
@@ -96,7 +96,7 @@ node tests/i18n-browser.cjs
 node scripts/check-host.cjs
 node scripts/benchmark.cjs
 python scripts/package.py
-python scripts/check-publication.py --index --zip dist/codex-quick-translator-1.3.0.zip
+python scripts/check-publication.py --index --zip dist/codex-quick-translator-1.3.1.zip
 python scripts/package-store.py
 ```
 

diff --git a/store/REVIEWER.md b/store/REVIEWER.md
@@ -9,7 +9,7 @@ This is an independent Windows-only extension. It requires a separately installe
 5. Reopen settings. Check that the local Codex connection succeeds. Select a target language, available model, reasoning effort and speed tier. Model availability depends on the account/runtime; GPT-6 Luna/low/priority is the configured default.
 6. Open an ordinary HTTP(S) article, select a short sentence, and choose “Quick Translate” (localized to Chrome) from the context menu. Expect a dark floating panel with translation, explanation and context entirely in your chosen target language. Resize from any corner and try Stop/Retry/Copy.
 7. Set an absolute local `.md` path in settings, translate again and click the flag. Confirm the note includes source title, URL, original text, three result sections in the selected language and model metadata. Repeated saving of the same result must not duplicate it.
-8. Switch the target to Japanese or Arabic and translate again. All three sections should follow the target. Interface language follows Chrome independently; Arabic output is right-to-left. New users default to browser language, while legacy preferences retain Chinese.
+8. Switch the target to Japanese or Arabic and translate again. All three sections should follow the target. Floating-panel labels/settings update immediately to the selected target language, also when saved from toolbar settings. Unavailable panel languages fall back to English. Toolbar settings and the context menu still follow Chrome. Arabic UI/output are right-to-left. New users default to browser language, while legacy preferences retain Chinese.
 9. Remove the companion registration using `scripts/uninstall.ps1` and remove the extension. Notes are intentionally preserved.
 
 Data flow: explicitly selected text and bounded page context go through the companion to the user's configured Codex model provider. The extension does not provide anonymous free translation, background browsing surveillance, advertising, analytics, or remote executable code. Native code is used only as the disclosed bridge to Codex and local note appending.

diff --git a/VALIDATION.md b/VALIDATION.md
@@ -2,6 +2,15 @@
 
 日期：2026-09-25。目标平台：Windows + Chrome；本地 Codex `0.155.0-alpha.16.4`。
 
+## v1.3.1 浮窗界面语言修复
+
+- 根因：浮窗始终调用 Chrome 当前界面的 `getMessage`，已保存的目标语言只用于模型输出。现改为由后台读取随扩展打包的对应语言资源，浮窗单独使用该资源；未提供的界面语言回退英文。
+- 打开时读取当前设置，保存后更新当前及其他已打开浮窗的按钮、设置、强度标签、速度说明、提示文字与排版方向。同步按 tab/frame/document 定向；关闭浮窗或标签页后清理订阅。
+- 修复重复打开齿轮时异步读取旧设置可能覆盖刚选择语言的问题。已生成正文保持原语言和方向，界面更新不发起模型请求。
+- 49 项 Node 测试与 4 项 Python 发布检查通过。新增中文 Chrome 下保存英文后返回正确语言资源、向已打开浮窗同步、关闭后停止通知及安全回退检查。
+- 浏览器测试页在英文、中文、阿拉伯语 Chrome 环境验证：日语/阿拉伯语浮窗、从工具栏保存后的同步事件、英文按钮和设置、关闭重开保留英语、自定义语言界面回退英文。测试使用生产 UI 与模拟扩展通信，未声称完成已安装扩展原生右键端到端复验。
+- 本轮未改模型调用或执行额外真实翻译；截图使用先前真实模型结果重放。发布仍使用逐文件清单及工作区、Git 暂存区、ZIP 内容扫描。
+
 ## v1.3.0 多语言与国际化
 
 - 46 项 Node 测试、4 项 Python 发布扫描测试通过。新增语言代码校验、旧配置迁移、Chrome 消息替换、10 个语言目录完整性、旧主机兼容阻止、实际 RPC 指令字段和多语言 Markdown 安全检查。

diff --git a/PRIVACY.en.md b/PRIVACY.en.md
@@ -16,7 +16,7 @@ The developer has no server receiving translation data. The extension includes n
 
 ## Local storage and deletion
 
-Model, reasoning effort, speed, target language and note-path preferences are stored in the companion's `.local` directory. Chrome's interface language is used to localize the UI and resolve the “Follow browser language” target. Up to 100 completed translations are retained in companion process memory and cleared when that process exits.
+Model, reasoning effort, speed, target language and note-path preferences are stored in the companion's `.local` directory. The selected target language also determines floating-panel labels. Chrome’s interface language localizes toolbar settings and the context menu, and resolves the “Follow browser language” target. Up to 100 completed translations are retained in companion process memory and cleared when that process exits.
 
 Only clicking the flag appends original text, translation, explanation, context, page title, source URL, time, target language and model settings to your chosen Markdown file. The developer cannot access it. You may edit or delete notes yourself; uninstalling intentionally preserves them. Deleting the companion directory removes its settings and test data. Codex manages its own account data and logs separately.
 

diff --git a/store/LISTING.zh-CN.md b/store/LISTING.zh-CN.md
@@ -15,7 +15,7 @@
 主要功能：
 • 深色圆角悬浮窗，支持拖动和四角缩放。
 • 目标语言可在设置中修改，翻译、解释与语境均使用所选语言。提供 150 多种语言选项及自定义语言代码，实际支持和质量取决于模型。
-• 界面跟随 Chrome，提供简繁中文、英、西、法、德、日、韩、阿拉伯语和巴西葡萄牙语；其他界面语言回退英文。新安装默认目标语言跟随浏览器，旧用户保留中文直到主动更改。
+• 浮窗界面跟随所选目标语言，保存后立即更新；工具栏设置页和右键菜单跟随 Chrome。界面提供简繁中文、英、西、法、德、日、韩、阿拉伯语和巴西葡萄牙语；其他界面语言回退英文。新安装默认目标语言跟随浏览器，旧用户保留中文直到主动更改。
 • 模型、思考强度和快速服务独立设置；默认 GPT-6 Luna、low 和标称 1.5× 快速服务。可用模型、倍率与额度由 Codex 账号和服务决定，实际速度不作保证。
 • 点击旗帜，将原文、翻译、解释、语境、来源网页与可点击网址追加到指定的本地 Markdown 文件。
 • 支持停止、重试、复制和 Esc 关闭。
